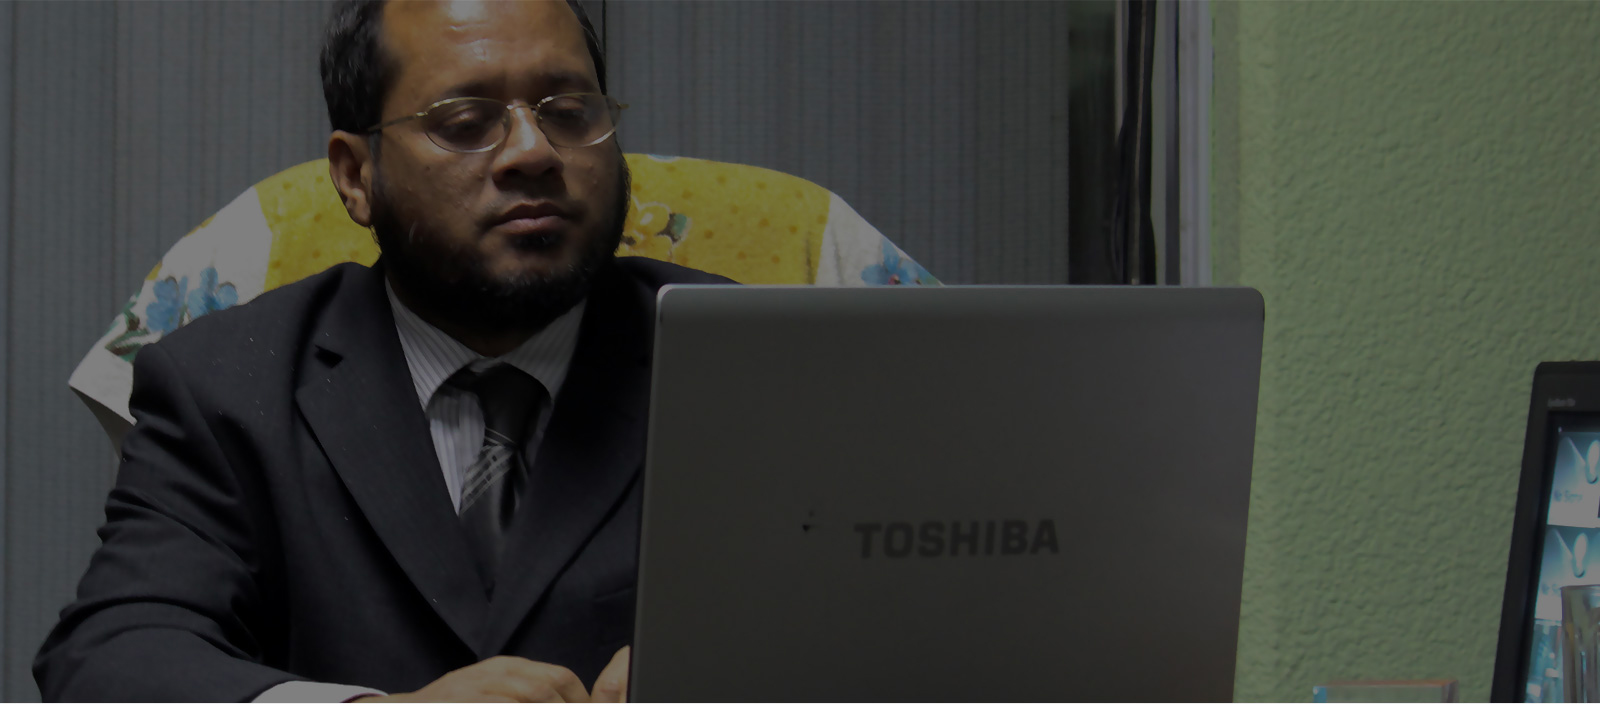
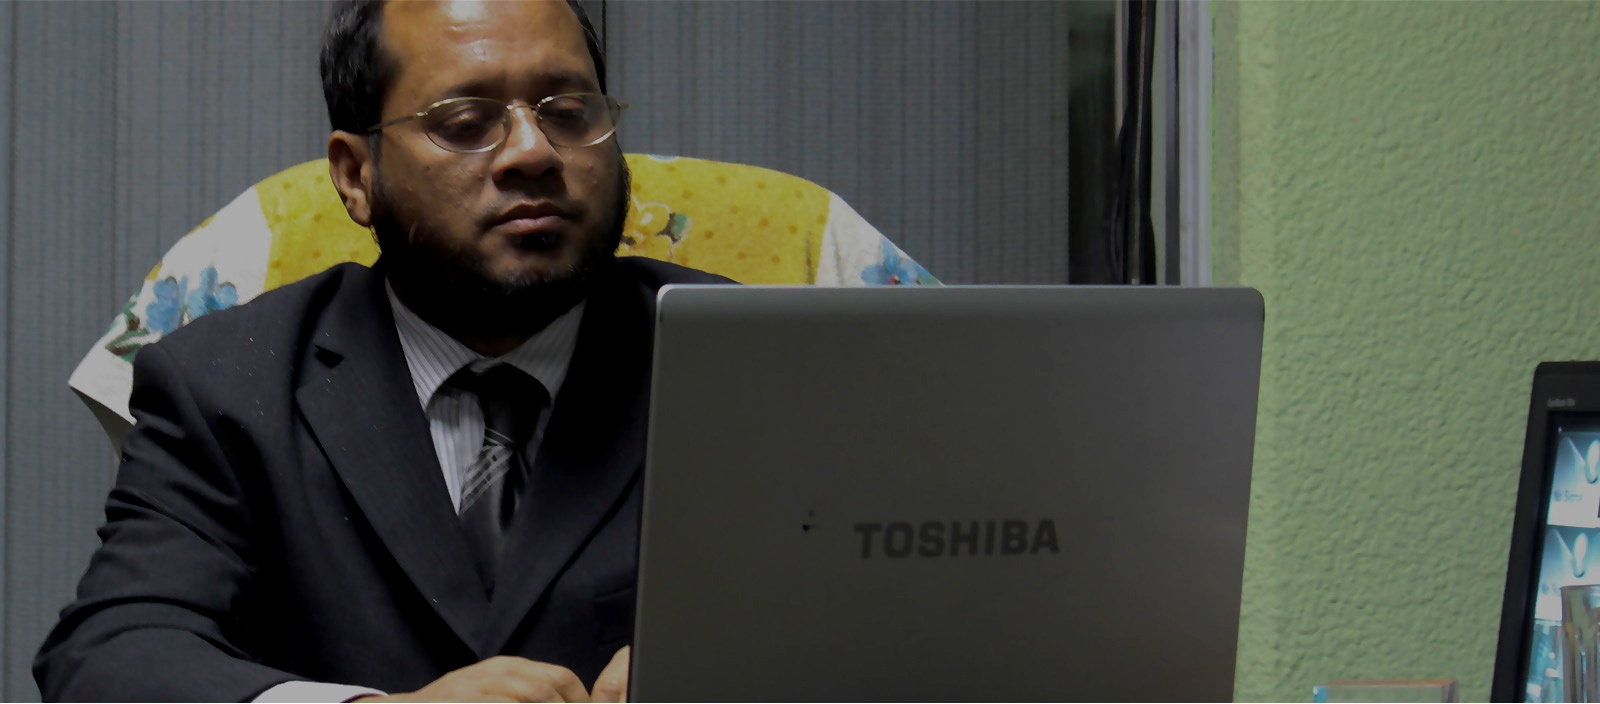
feat: enhance Managing Director authentic photography and spotlight cards on Home and Message-from pages

diff --git a/src/app/message-from/page.tsx b/src/app/message-from/page.tsx
@@ -112,19 +112,24 @@ export default function MessageFromMDPage() {
             </div>
 
             {/* Original Managing Director Photograph Banner */}
-            <div className="relative w-full h-64 sm:h-80 rounded-2xl overflow-hidden border border-slate-200 shadow-md">
+            <div className="relative w-full h-72 sm:h-96 rounded-2xl overflow-hidden border-2 border-slate-200 shadow-xl group">
               <Image
                 src="/frontend/images/managingdirector.jpg"
                 alt="Managing Director - Jahid Office Equipment"
                 fill
-                className="object-cover object-top"
+                className="object-cover object-[25%_center] group-hover:scale-[1.02] transition-transform duration-500"
                 priority
                 unoptimized
               />
-              <div className="absolute inset-0 bg-gradient-to-t from-slate-950/60 via-transparent to-transparent flex items-end p-4">
-                <span className="text-xs font-semibold text-white drop-shadow">
-                  Managing Director at Jahid Office Equipment Executive Office
-                </span>
+              <div className="absolute inset-0 bg-gradient-to-t from-slate-950/80 via-slate-950/20 to-transparent flex items-end p-5 sm:p-6">
+                <div>
+                  <span className="text-xs font-bold uppercase tracking-wider text-red-400">
+                    Executive Desk · Jahid Office Equipment
+                  </span>
+                  <p className="text-base sm:text-lg font-bold text-white drop-shadow">
+                    Managing Director with Toshiba Office Solutions
+                  </p>
+                </div>
               </div>
             </div>
 

diff --git a/src/app/page.tsx b/src/app/page.tsx
@@ -189,16 +189,21 @@ export default function HomePage() {
       {/* 4. Managing Director Spotlight */}
       <section className="max-w-7xl mx-auto px-4 sm:px-6 lg:px-8">
         <div className="p-8 sm:p-10 bg-gradient-to-r from-[#0b192c] via-[#162a45] to-[#0b192c] text-white rounded-3xl shadow-2xl relative overflow-hidden">
+          {/* Subtle Authentic Background Texture */}
+          <div 
+            className="absolute inset-0 opacity-15 bg-cover bg-[center_left] pointer-events-none mix-blend-luminosity" 
+            style={{ backgroundImage: "url('/frontend/images/managingdirector.jpg')" }}
+          />
           <div className="absolute right-0 top-0 w-80 h-80 bg-red-600/10 rounded-full blur-3xl pointer-events-none" />
           
           <div className="grid grid-cols-1 md:grid-cols-12 gap-8 items-center relative z-10">
             <div className="md:col-span-4 flex flex-col items-center text-center">
-              <div className="relative w-40 h-40 rounded-2xl overflow-hidden border-2 border-red-500/50 shadow-2xl bg-slate-900">
+              <div className="relative w-40 h-40 sm:w-48 sm:h-48 rounded-2xl overflow-hidden border-4 border-red-500/40 shadow-2xl bg-slate-900 group ring-4 ring-white/10">
                 <Image
                   src="/frontend/images/md-portrait.jpg"
                   alt="Managing Director - Jahid Office Equipment"
                   fill
-                  className="object-cover"
+                  className="object-cover group-hover:scale-105 transition-transform duration-300"
                   unoptimized
                 />
               </div>
